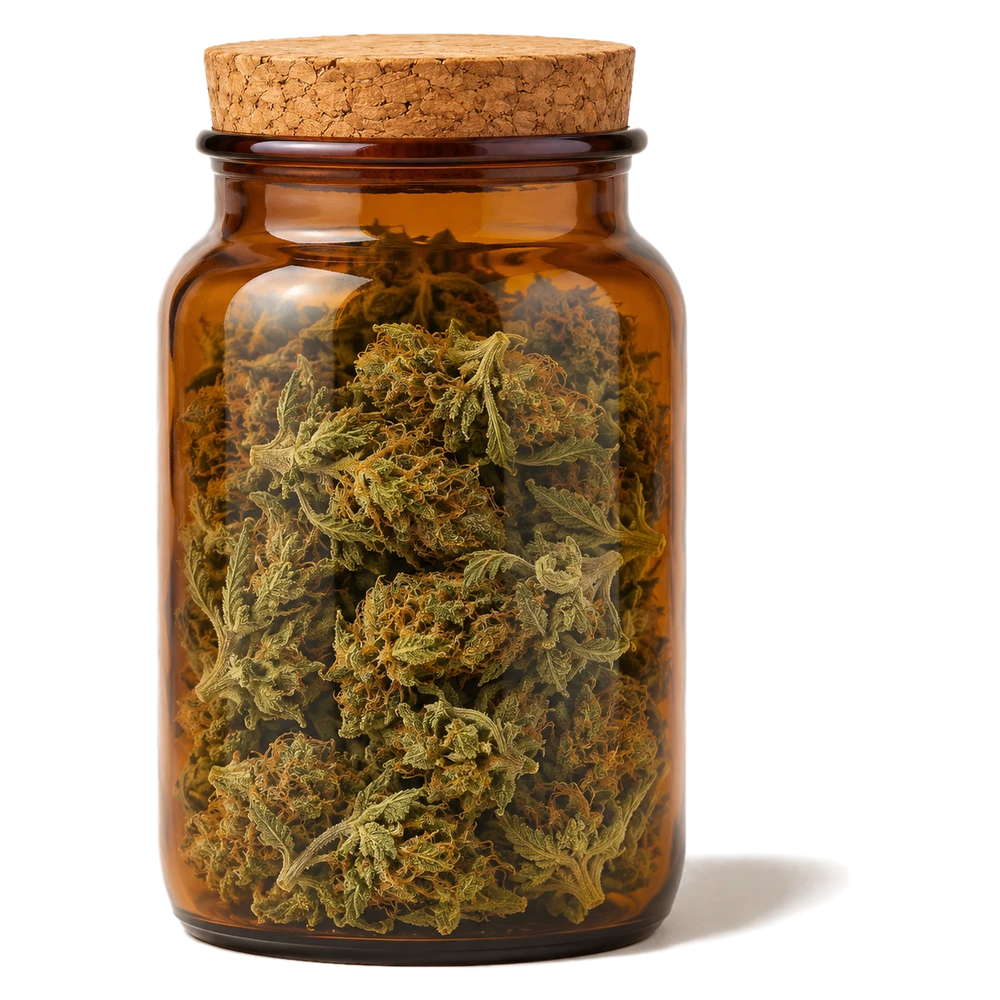
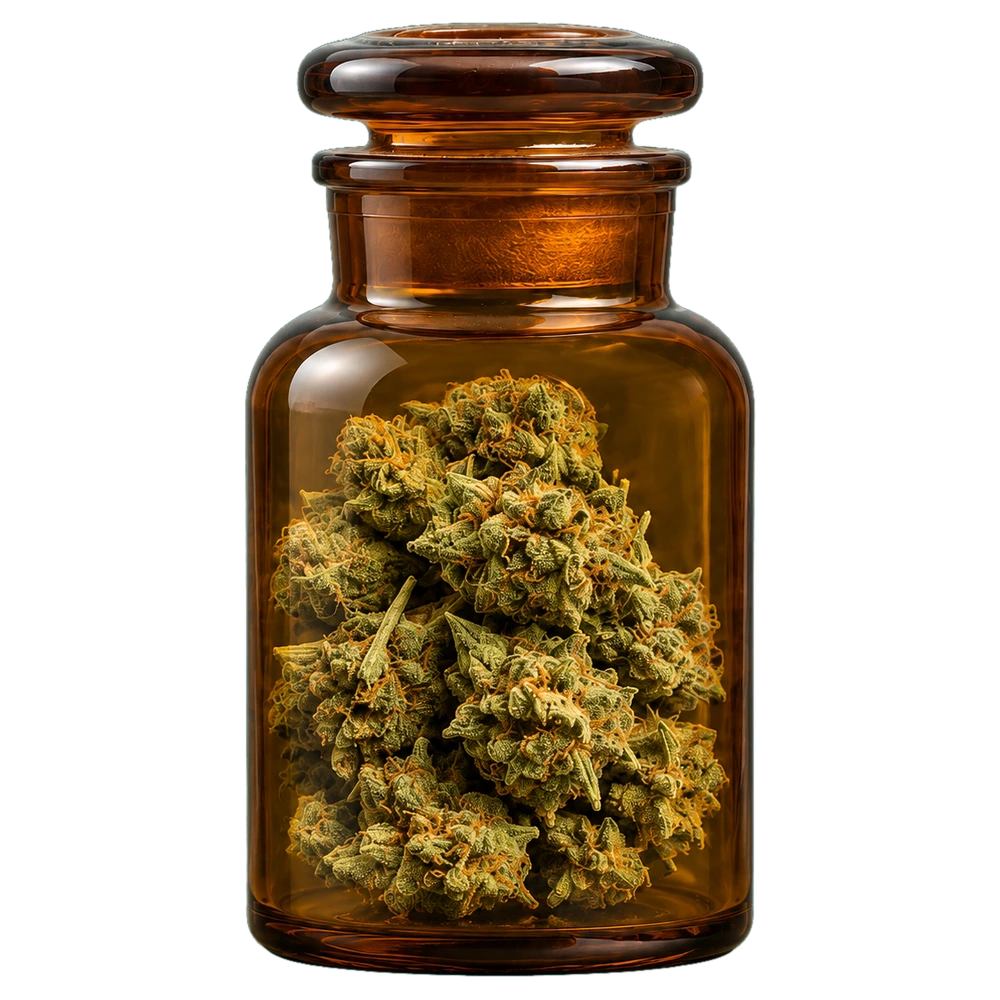
E-shop: nová dóza CBD květu, produkty v úvodu stojí na podstavci
Stará vyříznutá dóza měla pod sebou zbytek bílého stínu a jiné světlo
než scéna. Nová je stejného typu jako ve verzi B, vyříznutá z pozadí
v barvě scény. Produkty v úvodu se už nevznášejí, stojí na desce
podstavce se stínem; záře za nimi je slabší.

diff --git a/components/obchod/Uvod.tsx b/components/obchod/Uvod.tsx
@@ -6,14 +6,22 @@ import { useCallback, useEffect, useRef, useState } from "react";
 import { cenaOd, kc, najdiProdukt, type Produkt } from "@/lib/obchod/produkty";
 import { useKosik } from "./Kosik";
 
-// Co se střídá na podstavci. `vyska` = jak vysoký je produkt vůči scéně.
-const VYSTAVA: { slug: string; stitek: string; vyska: number }[] = [
-  { slug: "cbd-kvet", stitek: "CBD květ", vyska: 1 },
-  { slug: "t9hc-kvet-balanced", stitek: "Květy", vyska: 1 },
-  { slug: "9h-hhcp-joint-laughing-buddha", stitek: "Jointy", vyska: 1.08 },
-  { slug: "vape-gorilla-kush", stitek: "Vapy", vyska: 1.08 },
-  { slug: "kava-kava-borongoru", stitek: "Kava kava", vyska: 1 },
-];
+// Co se střídá na podstavci. `dno` = kolik procent výšky fotky je pod
+// produktem prázdných (o tolik se posune dolů, aby stál na podstavci),
+// `vyska` = zvětšení od paty.
+const VYSTAVA: { slug: string; stitek: string; dno: number; vyska: number }[] =
+  [
+    { slug: "cbd-kvet", stitek: "CBD květ", dno: 2.4, vyska: 1 },
+    { slug: "t9hc-kvet-balanced", stitek: "Květy", dno: 9.5, vyska: 1 },
+    {
+      slug: "9h-hhcp-joint-laughing-buddha",
+      stitek: "Jointy",
+      dno: 9.5,
+      vyska: 1.06,
+    },
+    { slug: "vape-gorilla-kush", stitek: "Vapy", dno: 9.5, vyska: 1.06 },
+    { slug: "kava-kava-borongoru", stitek: "Kava kava", dno: 9.5, vyska: 1 },
+  ];
 const POLOZKY = VYSTAVA.map((v) => ({
   ...v,
   produkt: najdiProdukt(v.slug) as Produkt,
@@ -59,7 +67,7 @@ function Produkty({ i, velikost }: { i: number; velikost: string }) {
                 : "pointer-events-none translate-y-10 rotate-6 scale-90 opacity-0"
           }`}
         >
-          <div className="absolute inset-0 animate-vznaset motion-reduce:animate-none">
+          <div className="absolute inset-0">
             <Image
               unoptimized
               src={p.produkt.foto!}
@@ -67,8 +75,11 @@ function Produkty({ i, velikost }: { i: number; velikost: string }) {
               fill
               priority={x === 0}
               sizes={velikost}
-              className="object-contain drop-shadow-[0_30px_30px_rgba(0,0,0,0.45)]"
-              style={{ transform: `scale(${p.vyska})` }}
+              className="object-contain drop-shadow-[0_10px_14px_rgba(0,0,0,0.35)]"
+              style={{
+                transformOrigin: `50% ${100 - p.dno}%`,
+                transform: `translateY(${p.dno}%) scale(${p.vyska})`,
+              }}
             />
           </div>
         </div>
@@ -274,10 +285,15 @@ function UvodPocitac({ v }: { v: ReturnType<typeof useVystava> }) {
       >
         <div
           aria-hidden
-          className="absolute inset-[4%] rounded-full opacity-35 blur-3xl transition-colors duration-700"
+          className="absolute inset-x-[12%] bottom-[8%] top-[14%] rounded-full opacity-[0.14] blur-3xl transition-colors duration-700"
           style={{ background: p.barva }}
         />
-        <div className="absolute inset-0 transition-transform duration-500 ease-out [transform:perspective(900px)_translate3d(calc(var(--mx)*46px),calc(var(--my)*30px),0)_rotateY(calc(var(--mx)*16deg))_rotateX(calc(var(--my)*-12deg))] motion-reduce:transform-none">
+        {/* stín pod produktem na desce podstavce */}
+        <div
+          aria-hidden
+          className="absolute -bottom-[2.5%] left-1/2 h-[7%] w-[58%] -translate-x-1/2 rounded-[100%] bg-black/55 blur-lg"
+        />
+        <div className="absolute inset-0 origin-bottom transition-transform duration-500 ease-out [transform:perspective(900px)_rotateY(calc(var(--mx)*14deg))_rotateX(calc(var(--my)*-6deg))] motion-reduce:transform-none">
           <Produkty i={i} velikost="(min-width: 1280px) 420px, 34vw" />
         </div>
         <Link
@@ -374,7 +390,7 @@ function UvodTelefon({ v }: { v: ReturnType<typeof useVystava> }) {
         <div className="absolute inset-x-0 top-0 h-24 bg-gradient-to-b from-[#17534c] to-transparent" />
         <div
           aria-hidden
-          className="absolute left-1/2 top-[10%] h-[50%] w-[62%] -translate-x-1/2 rounded-full opacity-35 blur-3xl transition-colors duration-700"
+          className="absolute left-1/2 top-[16%] h-[42%] w-[56%] -translate-x-1/2 rounded-full opacity-[0.14] blur-3xl transition-colors duration-700"
           style={{ background: p.barva }}
         />
         <div
@@ -386,6 +402,10 @@ function UvodTelefon({ v }: { v: ReturnType<typeof useVystava> }) {
             transition: tah ? "none" : "transform 0.4s ease-out",
           }}
         >
+          <div
+            aria-hidden
+            className="absolute -bottom-[2.5%] left-1/2 h-[7%] w-[58%] -translate-x-1/2 rounded-[100%] bg-black/55 blur-md"
+          />
           <Produkty i={v.i} velikost="70vw" />
         </div>
         <button
@@ -431,10 +451,10 @@ export default function Uvod() {
       style={
         {
           "--pl": "59%",
-          "--pt": "12%",
+          "--pt": "19%",
           "--pw": "32%",
           "--ph": "60%",
-          "--mt": "7%",
+          "--mt": "13%",
           "--mp": "50%",
         } as React.CSSProperties
       }
